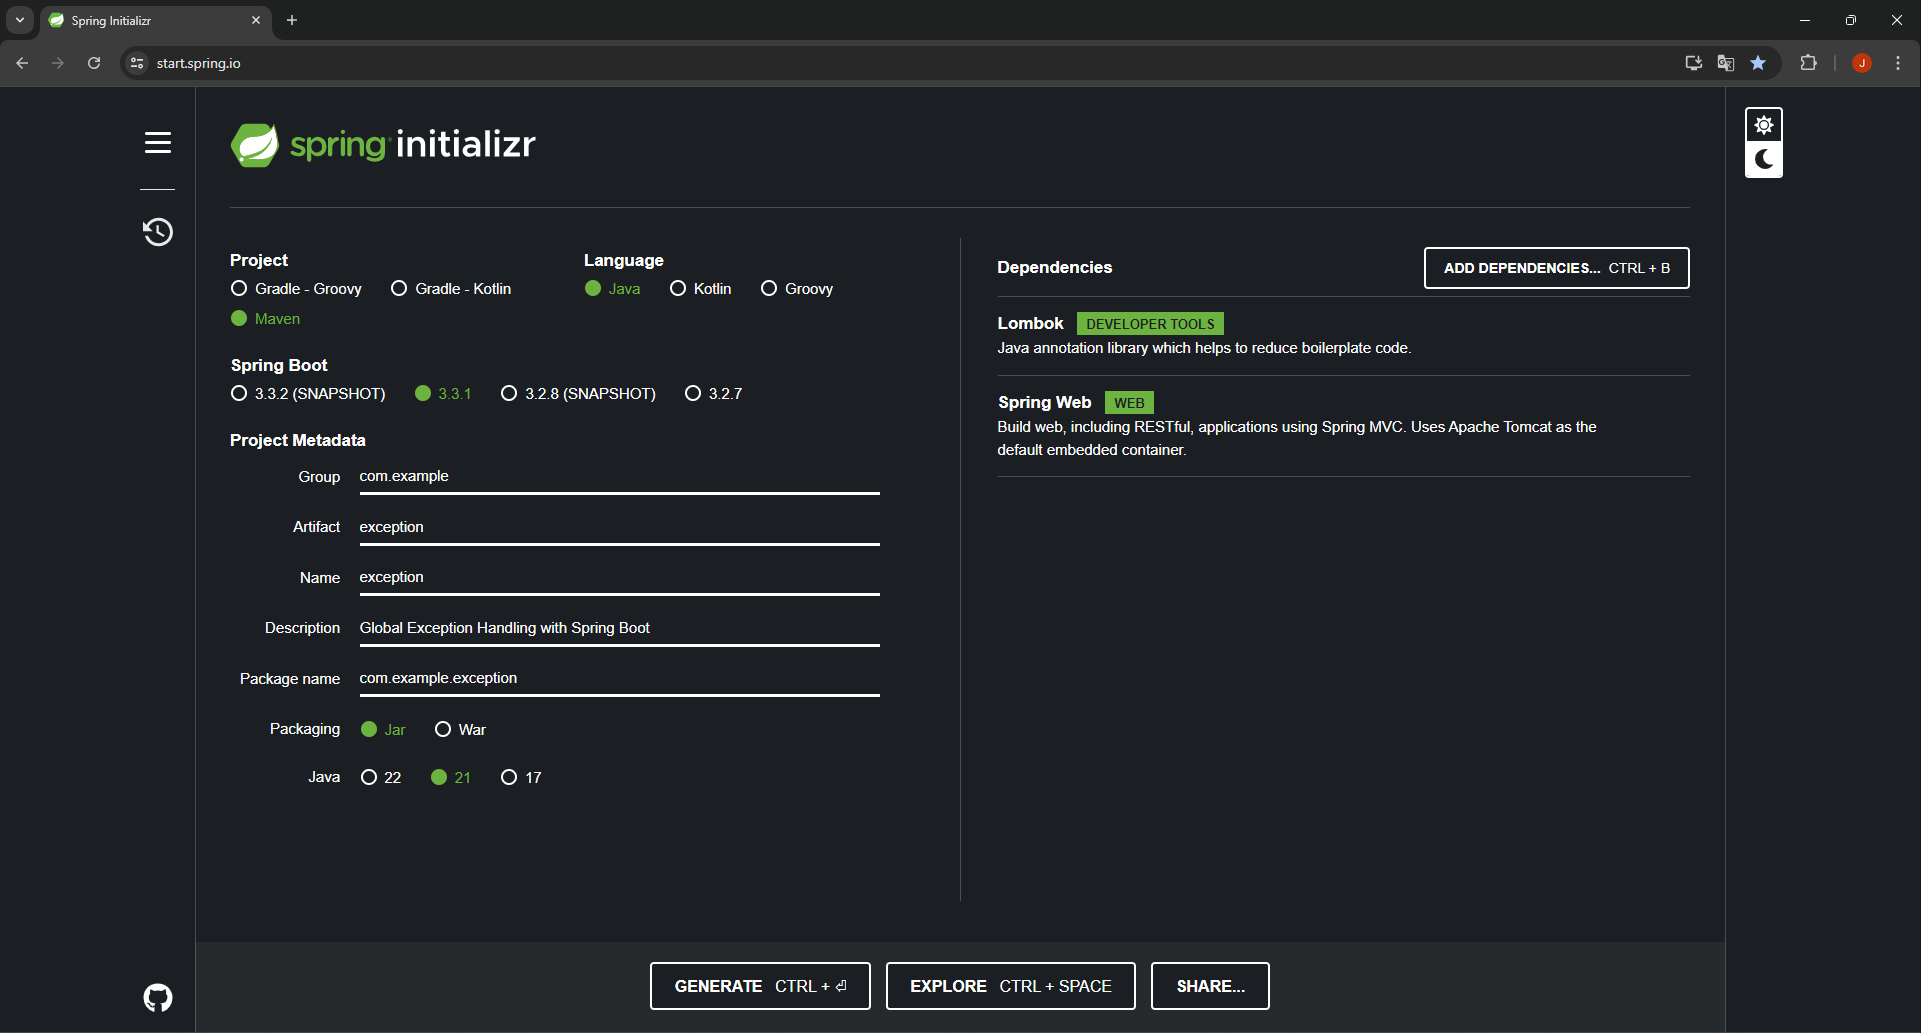
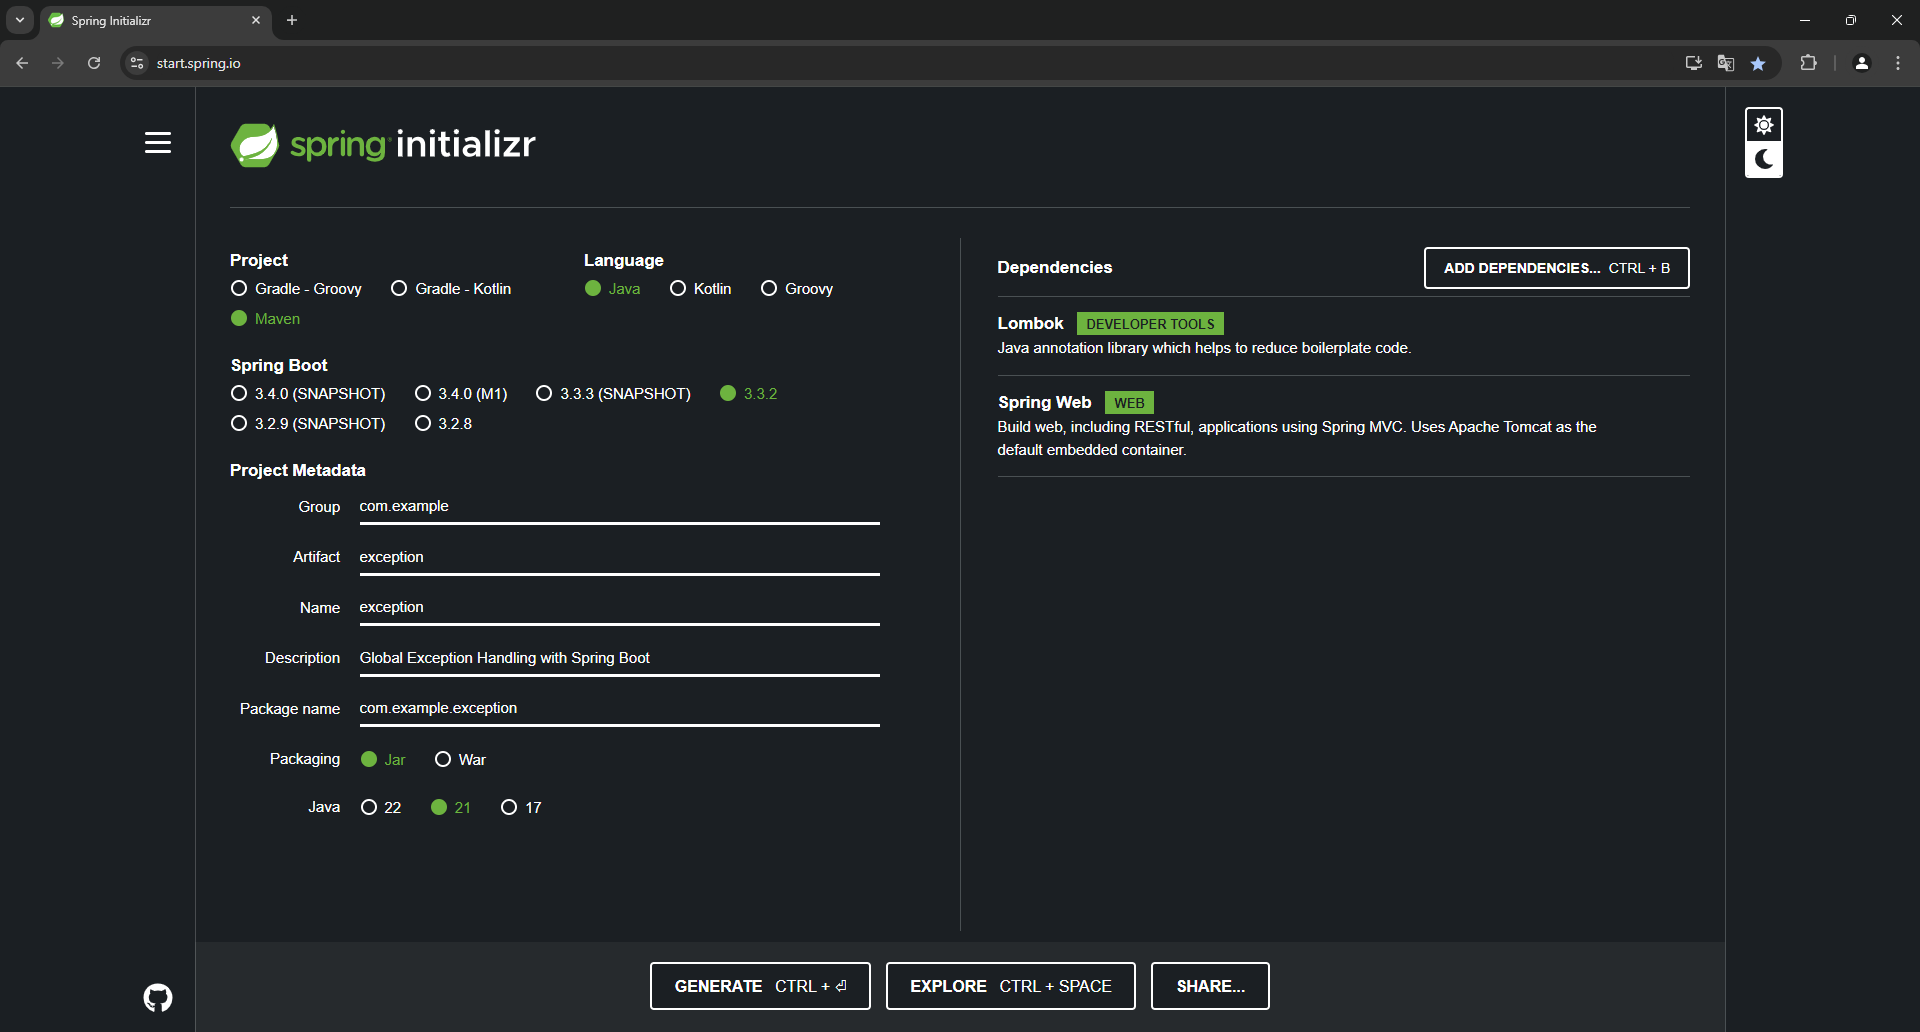
Update README.md

diff --git a/README.md b/README.md
@@ -7,9 +7,9 @@ In this article, we will delve into the significance of global exception handlin
 
 <b>Author:</b> <a href="https://github.com/spring-boot-react-nextjs" target="_blank">spring-boot-react-nextjs</a><br>
 <b>Created:</b> 2024-07-07<br>
-<b>Last updated:</b> 2024-07-07
+<b>Last updated:</b> 2024-08-04
 
-[![](https://img.shields.io/badge/Spring%20Boot-8A2BE2)]() [![](https://img.shields.io/badge/release-Jun%2020,%202024-blue)]() [![](https://img.shields.io/badge/version-3.3.1-blue)]()
+[![](https://img.shields.io/badge/Spring%20Boot-8A2BE2)]() [![](https://img.shields.io/badge/release-Jul%2018,%202024-blue)]() [![](https://img.shields.io/badge/version-3.3.2-blue)]()
 
 ## 1. Why Global Exception Handling Matters?
 1. <b>Centralized Error Handling:</b> <strong>Global exception handling</strong> allows developers to centralize error-handling logic, making it easier to manage and maintain.<br/>
